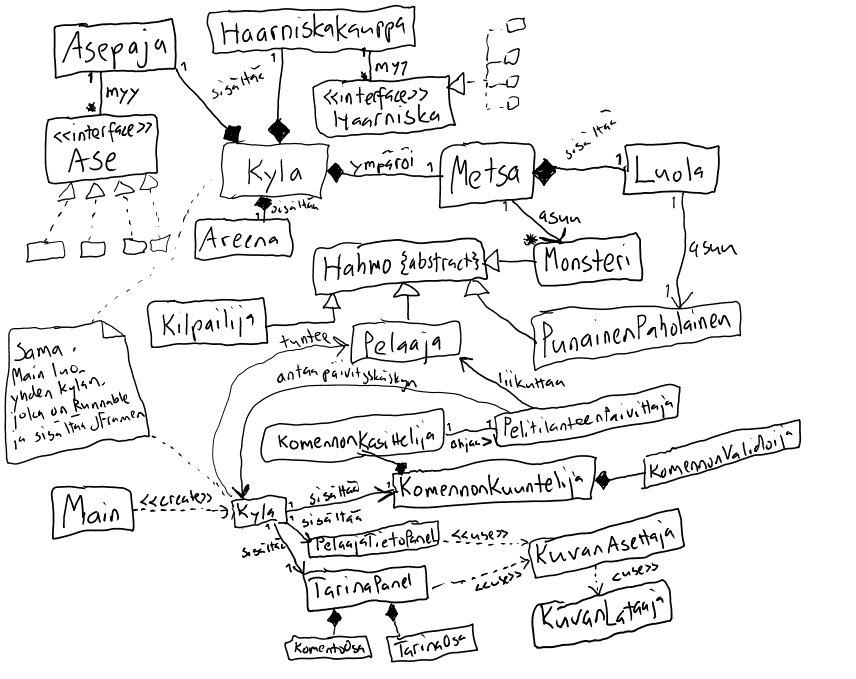
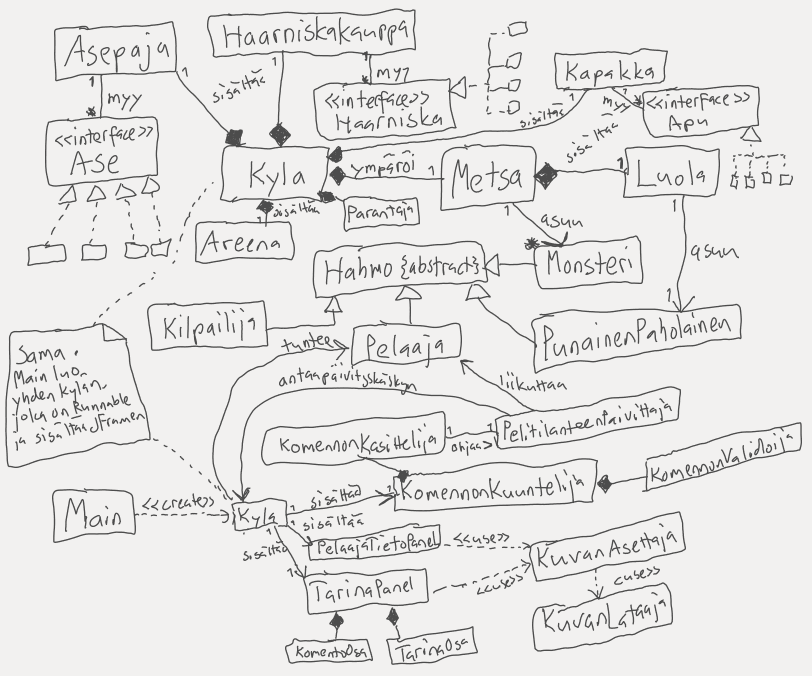
sekvenssikaaviot ja dokumentoinnin päivitys

Changed region(s): [[0.0, 0.0, 1.0, 0.9941]]

diff --git a/PunaisenPaholaisenMetsastys/src/main/java/com/ued1/punaisenpaholaisenmetsastys/logiikka/Taistelu.java b/PunaisenPaholaisenMetsastys/src/main/java/com/ued1/punaisenpaholaisenmetsastys/logiikka/Taistelu.java
@@ -34,14 +34,14 @@ public class Taistelu {
      * @return totuusarvo taistelun päättymisestä, true jos taistelu on saatu päätöḱseen
      */
     public boolean taistele() {
-        ekaIsku = Math.max(1, laskeLyontiVoima(ekaTaistelija.lyo(), tokaTaistelija.suojaa()));
+        ekaIsku = Math.max(1, laskeVahinko(ekaTaistelija.lyo(), tokaTaistelija.suojaa()));
         laskeVointia(tokaTaistelija, ekaIsku);
         if (!tokaTaistelija.onkoElossa()) {
             ekaIsku = -999;
             tokaIsku = -999;
             return true;
         }
-        tokaIsku = Math.max(0, laskeLyontiVoima(tokaTaistelija.lyo(), ekaTaistelija.suojaa()));
+        tokaIsku = Math.max(0, laskeVahinko(tokaTaistelija.lyo(), ekaTaistelija.suojaa()));
         laskeVointia(ekaTaistelija, tokaIsku);
         if (!ekaTaistelija.onkoElossa()) {
             ekaIsku = -999;
@@ -63,7 +63,7 @@ public class Taistelu {
         return false;
     }
     
-    private int laskeLyontiVoima(int lyonti, int suojaus) {
+    private int laskeVahinko(int lyonti, int suojaus) {
         int osuma = lyonti/2 + random.nextInt(lyonti/2 + 1) - suojaus;
         return osuma;
     }

diff --git a/PunaisenPaholaisenMetsastys/src/main/java/com/ued1/punaisenpaholaisenmetsastys/logiikka/Metsa.java b/PunaisenPaholaisenMetsastys/src/main/java/com/ued1/punaisenpaholaisenmetsastys/logiikka/Metsa.java
@@ -26,7 +26,7 @@ public class Metsa {
      * perustuen pelaajan ominaisuuksiin.
      */
     public void aloitaUusiTaistelu() {
-        taistelu = new Taistelu(pelaaja, etsiUusiMonsteriTaisteluun());
+        taistelu = new Taistelu(pelaaja, generoiUusiMonsteriTaisteluun());
     }
     
     /**
@@ -49,7 +49,7 @@ public class Metsa {
         return (1 + arpoja.nextInt(korkeintaan));
     }
     
-    private Monsteri etsiUusiMonsteriTaisteluun() {
+    private Monsteri generoiUusiMonsteriTaisteluun() {
         int monsterinVointi = arvoPositiivinenLuku(2 * pelaaja.getMaxVointi());
         int monsterinVoima = arvoPositiivinenLuku(pelaaja.lyo());
         int monsterinPuolustus = arvoPositiivinenLuku(pelaaja.suojaa());

diff --git a/dokumentointi/aiheenKuvausJaRakenne.md b/dokumentointi/aiheenKuvausJaRakenne.md
@@ -1,9 +1,9 @@
-Kuvilla höystetty dynaaminen tekstipohjainen rooli/seikkailupeli, jossa tavoitteena on etsiä ja tappaa kylääsi piinaava Punainen Paholainen. Tarina etenee tekstimuodossa, mutta käyttöliittymä ja toiminnot ovat graafisessa muodossa.
+Dynaaminen tekstipohjainen rooli/seikkailupeli, jossa tavoitteena on etsiä ja tappaa kylääsi piinaava Punainen Paholainen. Tarina etenee tekstimuodossa, mutta käyttöliittymä ja toiminnot ovat graafisessa muodossa ja pelissä on tilanteeseen sopivia kuvia.
 
-Kylää ympäröivässä metsässä on monstereita, joita vastaan taistelemalla ansaitsee kultarahoja. Kultarahoilla voi ostaa parempia aseita ja haarniskoja, joiden avulla voi haastaa kilpailevia taistelijoita ja edetä seuraavalle tasolle. Kun on tarpeeksi korkealla tasolla, voi lopulta etsia ja haastaa Punaisen Paholaisen.
+Kylää ympäröivässä metsässä on monstereita, joita vastaan taistelemalla ansaitsee kultarahoja. Kultarahoilla voi ostaa parempia aseita, haarniskoja ja muita apuvälineitä, joiden avulla pärjää paremmin taisteluissa. Kylän taisteluareenalla voi haastaa kilpailevia taistelijoita ja edetä seuraavalle tasolle. Kun on tarpeeksi korkealla tasolla, voi lopulta etsia ja haastaa Punaisen Paholaisen.
 
 Kylän asepajassa voi ostaa parempia aseita.
-- Aseen ostaminen: uuden aseen voi ostaa, mikäli pelaajalla on tarpeeksi rahaa ja hän on ensin myynyt vanhan aseensa
+- Aseen ostaminen: uuden aseen voi ostaa, jos pelaajalla on tarpeeksi rahaa ja hän on ensin myynyt vanhan aseensa. Ostaessa aseen hinta vähennetään pelaajan kultarahoista ja pelaaja saa aseen käteensä.
 - Aseen myyminen: aseen myydessä puolet sen arvosta palautetaan kultarahoina takaisin. Omaa nyrkkiä, mikä on aloitusase, ei kuitenkaan voi myydä.
 
 Haarniskakaupassa voi ostaa parempaa suojausta itselleen
@@ -15,10 +15,16 @@ Taisteluareenalla voi kehittää omaa osaamistaan.
 
 Metsässä taistellaan monstereita vastaan ja ansaitaan rahaa parempia varusteita varten
 - Etsimällä monsteria peli generoi sopivan tasoisen monsterin taisteluun. Monsterin vaikeus määräytyy pelaajan tason, lyontivoiman ja suojausvoiman perusteella. Voittamalla monsterin pelaajalla on enemmän kultarahoja käytettävissään, häviämällä menettää kaikki rahat. Useimmat monstereista ovat voitettavissa, loppujen kanssa tulee osata juosta karkuun välttääkseen kuoleman ja pelin loppumisen. Monsterien nimet arvotaan sattumanvaraisesti, mikään nimi ei ole sidoksissa tietyn tasoiseen monsteriin.
- 
-Taistelut tapahtuvat hahmojen välillä joko metsässä (monsterit), taisteluareenalla (kilpailijat) tai luolassa (Punainen Paholainen). Pelaaja lyö aina ensin, sen jälkeen vastustaja. Metsässä ollessaan pelaaja voi päättää jatkaako taistelua vai juokseeko karkuun. Taisteluareenalla ja Punaista Paholaista vastaan taistellessa juokseminen ei ole mahdollista. Taistelun hävitessä pelaaja menettää rahansa. Voittaessa pelaaja saa rahaa (taistelut monstereita vastaan) tai pelaajan ominaisuudet paranevat (taistelut kilpailijoita vastaan).
+
+Taistelut tapahtuvat hahmojen välillä joko metsässä (monsterit), taisteluareenalla (kilpailijat) tai luolassa (Punainen Paholainen). Pelaaja lyö aina ensin. Pelaajan lyödessä vastustaja puolustautuu. Lyöntivoimasta (50%-100% maksimilyöntivoima)
+vähennetään puolustajan puolustusvoima ja erotus vähentää vastustajan vointia erotuksen verran, mikäli se on suurempi kuin nolla, muussa tapauksessa pelaajan vahinko on 1. Mikäli vastustaja selviää hengissä, on vastustajan vuoro lyödä pelaajan puolustautuessa. Vastustajan tekemä vahinko lasketaan samalla kaavalla, mutta se on olla myös 0 edellä laskettu erotus on pienempi kuin yksi. Mikäli pelaaja on hengissä, on pelaajan vuoro lyödä. Metsässä ollessaan pelaaja voi päättää jatkaako taistelua vai juokseeko karkuun. Taisteluareenalla ja Punaista Paholaista vastaan taistellessa juokseminen ei ole mahdollista. Taistelun hävitessä pelaaja menettää rahansa (metsä, luola). Voittaessa pelaaja saa rahaa (taistelut monstereita vastaan) tai pelaajan ominaisuudet paranevat (taistelut kilpailijoita vastaan).
 
 Paholaisen Luola aktivoituu metsässä pelin lopussa, kun on noussut tarpeeksi korkealle tasolle.
-- Pelaaja voi halutessaan haastaa Punaisen Paholaisen ja pelastaa kylän (pelin voitto), mutta hänellä on vain yksi mahdollisuus. Hävitettään taistelun peli loppuu tappioon.
+- Pelaaja voi halutessaan haastaa Punaisen Paholaisen ja pelastaa kylän (pelin voitto), mutta hävitessään pelaaja menettää rahansa ja haarniskansa. Voittaessa peli loppuu voitoon.
 
-Hahmojen ominaisuuksia ovat vointi, voima, puolustus, taso ja kokemus. Vointi määräytyy pelaajan tason mukaan; mitä korkeampi taso sitä parempi vointi. Voinnin laskiessa nollaan pelaaja menettää rahansa. Vointia voi paranpaa lepäämällä milloin tahansa kunhan ei ole taistelu käynnissä. Voima määräytyy pelaajan aseen mukaan. Mitä suurempi lyöntivoima, sitä enemmän vahinkoa on mahdollista tehdä vastustajaan. Lyöntivoima on random-luku väliltä (puoletLyontiVoima..maxLyontiVoima). Vastustaja voi kuitenkin puolustautua ennen kuin lyönti osuu. Puolustusvoima määräytyy suoraan haarniskan mukaan. Lyojän lyöntivoimasta vähennetään puolustajan puolustusvoima ja tämä (epänegatiivinen) erotus laskee vointia. Vastustaja ei osu, mikäli pelaajan puolustus on suurempi kuin vastustajan lyöntivoima. Pelaaja puolestaan osu aina, vastustajan vointi laskee vähintään yhdellä.
+Kylässä on myös kapakka, mistä voi ostaa apuvälineitä. Apuvälineet auttavat pelaajaa eri tilanteissa, mutta joistakin apuvälineistä voi olla pelaajalla myös haittaa.
+
+Kylän parantaja parantaa pelaajan tarvittaessa. Parantajalta voi myös ostaa potioneja, joilla voi itse parantaa itsensä.
+
+Hahmojen ominaisuuksia ovat vointi, voima, puolustus, taso ja kokemus. Vointi määräytyy pelaajan tason mukaan; mitä korkeampi taso sitä parempi vointi. Voinnin laskiessa nollaan saa pelaaja jonkinlaisen sanktion (esim. rahojen menetys). Vointia voi paranpaa lepäämällä milloin tahansa kunhan ei ole taistelu käynnissä. Voima määräytyy pelaajan aseen mukaan. Mitä suurempi lyöntivoima, sitä enemmän vahinkoa on mahdollista tehdä vastustajaan. Puolustusvoima määräytyy haarniskan mukaan.
+

diff --git a/dokumentointi/tuntikirjanpito.md b/dokumentointi/tuntikirjanpito.md
@@ -74,3 +74,7 @@ Luokan KomennonValidoija siivous
 4 tuntia
 Lisää toiminnallisuutta, lisää grafiikkaa, korjattu hinnastojen ja valikoimien tulostusta, JavaDoc
 
+04.06.2015
+5 tuntia
+Testien parantelua, uusi pit, sekvenssikaaviot ym. dokumentoinnin päivitykset, parannuksia peliin
+
